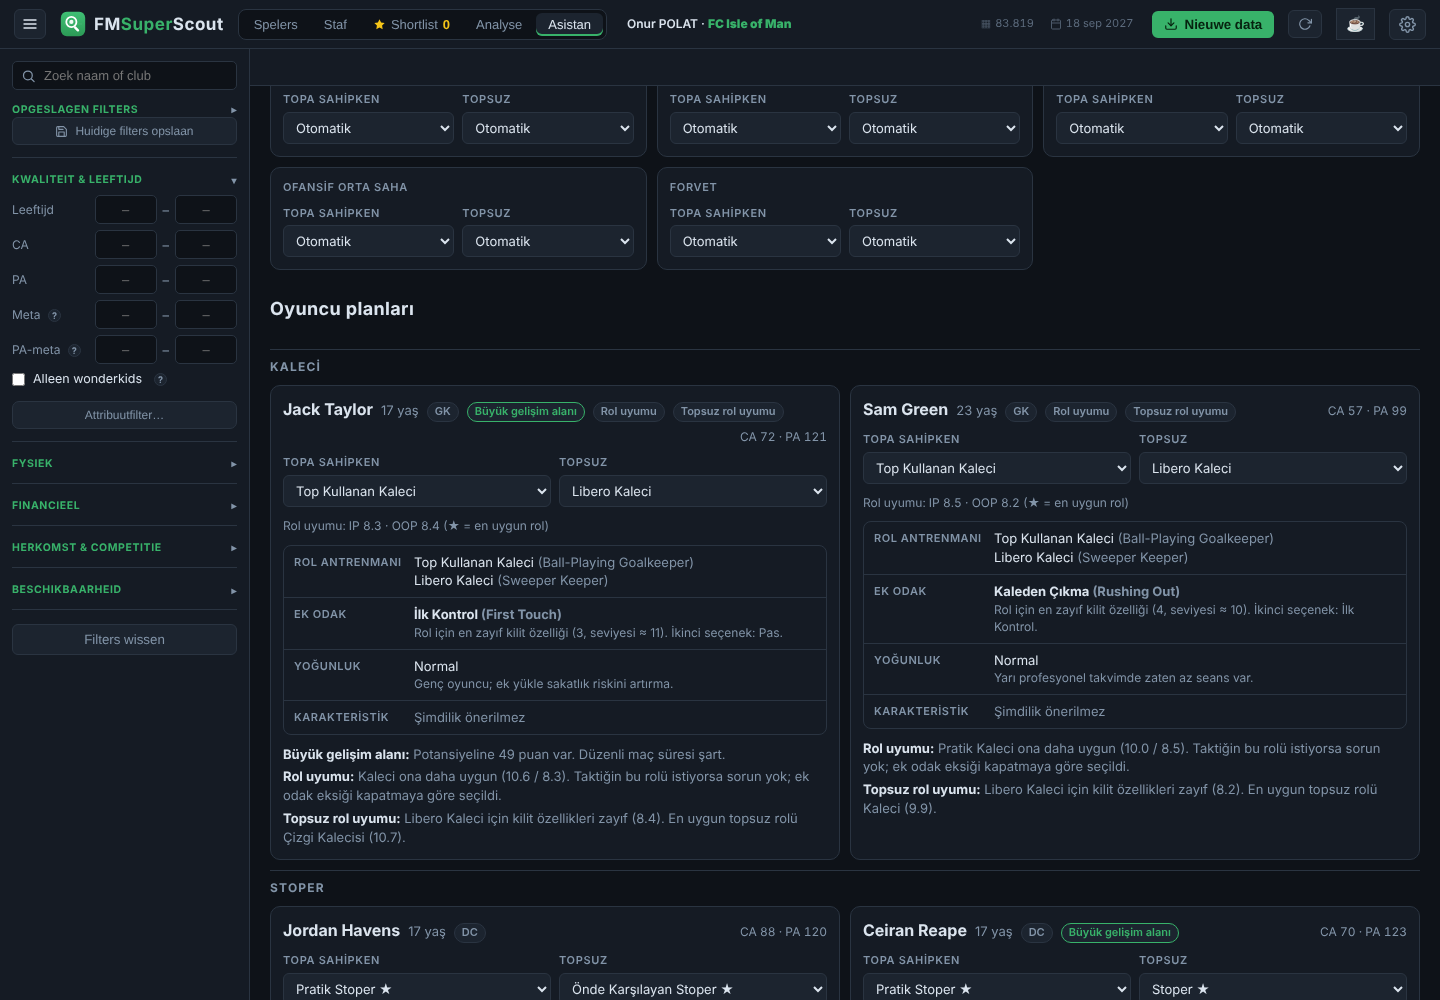
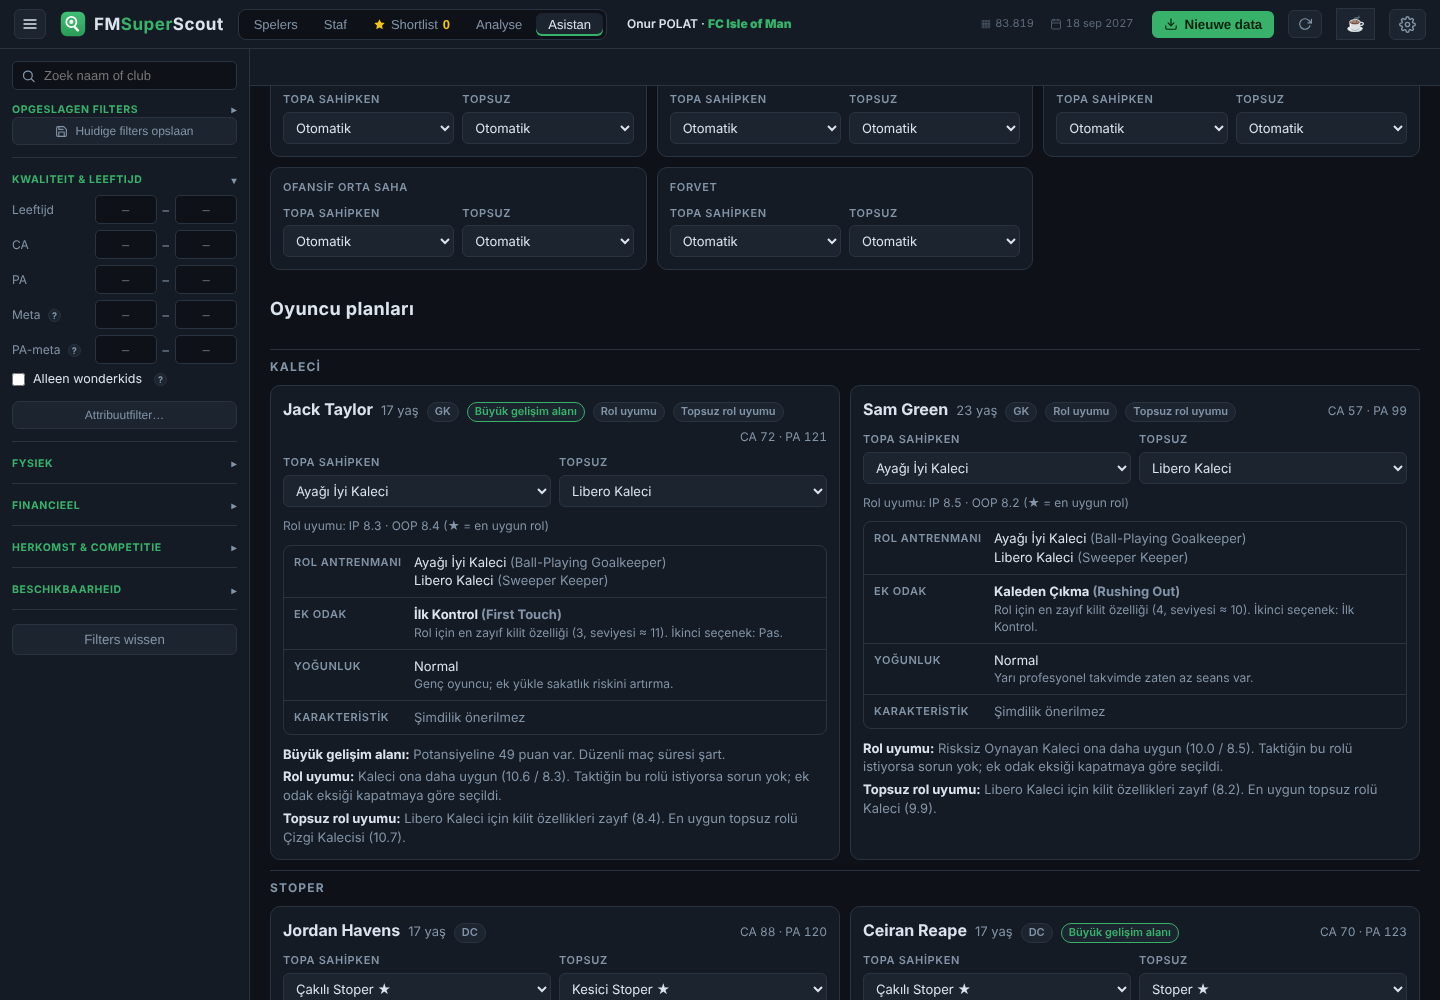
Use the game's Turkish role names; add Wide Centre-Back and Pressing DM roles
Claude-Session: https://claude.ai/code/session_01FYAE2VKR73swPSjYHJ17VG

diff --git a/src/i18n.js b/src/i18n.js
@@ -100,82 +100,85 @@ const I18N = {
     infl: { high:'yüksek', mid:'orta', low:'düşük' },
     intensity: { low:'Düşük', normal:'Normal', high:'Yüksek' },
     trait: false,
-    // Rol adları: oyundaki Türkçe karşılıklara en yakın adlar; yanlarında İngilizce adı da gösterilir.
+    // Rol adları: oyunun Türkçe çevirisindeki adlar (FM26 taktik ekranı).
     role: {
       gk:'Kaleci',
-      bpgk:'Top Kullanan Kaleci',
-      nngk:'Pratik Kaleci',
+      bpgk:'Ayağı İyi Kaleci',
+      nngk:'Risksiz Oynayan Kaleci',
       gk_o:'Kaleci',
-      lhk:'Çizgi Kalecisi',
       swk:'Libero Kaleci',
+      lhk:'Çizgi Kalecisi',
       cb:'Stoper',
-      bpcb:'Top Kullanan Stoper',
-      nncb:'Pratik Stoper',
-      acb:'İleri Çıkan Stoper',
-      ocb:'Bindiren Stoper',
+      acb:'Topla Çıkan Stoper',
+      bpcb:'Ayağı İyi Stoper',
+      nncb:'Çakılı Stoper',
+      wcb:'Kenar Stoperi',
+      ocb:'Çizgiden Bindiren Stoper',
       cb_o:'Stoper',
-      ccb:'Koruyucu Stoper',
-      scb:'Önde Karşılayan Stoper',
+      scb:'Kesici Stoper',
+      ccb:'Alan Savunan Stoper',
+      wcb_o:'Kenar Stoper',
       fb:'Bek',
-      ifb:'İçeri Kat Eden Bek',
-      pwb:'Oyun Kurucu Kanat Bek',
-      iwb:'İçeri Kat Eden Kanat Bek',
       wb:'Kanat Bek',
-      awb:'İleri Kanat Bek',
+      iwb:'İç Koridorda Oynayan Kanat Bek',
+      ifb:'Stoperleşen Bek',
+      pwb:'Oyun Kurucu Kanat Bek',
+      awb:'Ofansif Bek',
       fb_o:'Bek',
-      hfb:'Tutucu Bek',
-      pfb:'Pres Yapan Bek',
+      pfb:'Presçi Bek',
+      hfb:'Alan Savunan Bek',
       wb_o:'Kanat Bek',
-      hwb:'Tutucu Kanat Bek',
-      prwb:'Pres Yapan Kanat Bek',
+      prwb:'Presçi Kanat Bek',
+      hwb:'Alan Savunan Kanat Bek',
       dm:'Defansif Orta Saha',
-      hb:'Yarı Defans',
       dlp:'Derin Oyun Kurucu',
-      b2b:'Çift Yönlü Orta Saha',
-      b2bp:'Çift Yönlü Oyun Kurucu',
+      b2b:'İki Yönlü Orta Saha',
+      hb:'Gizli Libero',
+      b2bp:'İki Yönlü Oyun Kurucu',
       dm_o:'Defansif Orta Saha',
-      ddm:'Geri Düşen Defansif Orta Saha',
-      sdm:'Perdeleyen Defansif Orta Saha',
-      wcdm:'Kanatları Kapatan Defansif Orta Saha',
+      ddm:'İçeri Sarkan Defansif Orta Saha',
+      pdm:'Presçi Defansif Orta Saha',
+      sdm:'Karşılayıcı Defansif Orta Saha',
+      wcdm:'Geniş Alanda Oynayan Defansif Orta Saha',
       cm:'Merkez Orta Saha',
-      mp:'Orta Saha Oyun Kurucusu',
-      wcm:'Kanada Açılan Merkez Orta Saha',
-      ap:'İleri Oyun Kurucu',
       am:'Ofansif Orta Saha',
-      chm:'Koridor Orta Sahası',
+      ap:'Ofansif Oyun Kurucu',
+      wcm:'Geniş Alanda Oynayan Merkez Orta Saha',
+      chm:'İç Merkez Orta Saha',
+      mp:'Oyun Kurucu Orta Saha',
       cm_o:'Merkez Orta Saha',
-      pcm:'Pres Yapan Orta Saha',
-      scm:'Perdeleyen Orta Saha',
-      wccm:'Kanatları Kapatan Orta Saha',
-      fr:'Serbest Rol',
+      pcm:'Presçi Merkez Orta Saha',
+      scm:'Markajcı Merkez Orta Saha',
+      wccm:'Geniş Bölgede Oynayan Merkez Orta Saha',
+      fr:'Serbest Oyuncu',
       ss:'İkinci Forvet',
       am_o:'Ofansif Orta Saha',
-      coam:'Merkezde Bekleyen Ofansif Orta Saha',
-      soam:'Kanala Açılan Ofansif Orta Saha',
-      tam:'Savunmaya Yardım Eden Ofansif Orta Saha',
-      'if':'İçeri Kat Eden Forvet',
-      iw:'İçeri Kat Eden Kanat',
-      pw:'Oyun Kurucu Kanat',
-      wf:'Kanat Forvet',
-      w:'Kanat Oyuncusu',
+      tam:'Takipçi Ofansif Orta Saha',
+      coam:'Pres Kırıcı Merkez Orta Saha',
+      soam:'Hareketli Ofansif Orta Saha',
       wm:'Kanat Orta Saha',
+      w:'Kanat Oyuncusu',
+      pw:'Oyun Kurucu Kanat',
+      iw:'İç Kanat Oyuncusu',
+      wf:'Kanat Forvet',
+      'if':'İç Kanat Forvet',
+      wm_o:'Dış Kanat Orta Saha',
+      twm:'Çalışkan Dış Orta Saha',
+      wowm:'Pres Kırıcı Dış Orta Saha',
       w_o:'Kanat Oyuncusu',
-      iow:'İçeride Bekleyen Kanat',
-      tw:'Savunmaya Yardım Eden Kanat',
-      wow:'Kenarda Bekleyen Kanat',
-      wm_o:'Kanat Orta Saha',
-      twm:'Savunmaya Yardım Eden Kanat Orta Saha',
-      wowm:'Kenarda Bekleyen Kanat Orta Saha',
-      cf:'Santrfor',
-      chf:'Koridor Forveti',
-      dlf:'Derin Forvet',
+      tw:'Takipçi Kanat',
+      iow:'İç Koridorda Bekleyen Kanat',
+      wow:'Hareketli Kanat Oyuncusu',
+      dlf:'Yardımcı Forvet',
+      cf:'Merkez Forvet',
+      tf:'Pivot Santrafor',
+      poa:'Fırsatçı Oyuncu',
+      chf:'İç Forvet',
       f9:'Sahte 9',
-      poa:'Fırsatçı Forvet',
-      tf:'Hedef Forvet',
-      cf_o:'Santrfor',
-      cocf:'Merkezde Bekleyen Santrfor',
-      socf:'Kanala Açılan Santrfor',
-      tcf:'Savunmaya Yardım Eden Santrfor',
+      cf_o:'Merkez Forvet',
+      tcf:'Takipçi Forvet',
+      cocf:'Bağlantı Oyuncusu',
+      socf:'Hareketli Forvet',
     },
     traitTr: {
       'Gets Into Opposition Area':'Rakip ceza sahasına girer', 'Shoots From Distance':'Uzaktan şut dener', 'Places Shots':'Plase vurur',

diff --git a/src/engine.js b/src/engine.js
@@ -21,9 +21,11 @@ const ROLES = [
   R('bpcb','IP','Ball-Playing Centre-Back',['DC'],['Passing','Composure','Vision','FirstTouch','Technique','Decisions'],['Positioning','Heading']),
   R('nncb','IP','No-Nonsense Centre-Back',['DC'],['Heading','JumpingReach','Strength','Bravery','Positioning'],['Marking','Tackling','Concentration']),
   R('acb','IP','Advanced Centre-Back',['DC'],['Passing','Dribbling','FirstTouch','Composure','Vision','Decisions'],['Technique','Stamina','Acceleration']),
+  R('wcb','IP','Wide Centre-Back',['DC'],['Marking','Tackling','Positioning','Dribbling','Crossing','Pace'],['Stamina','Passing']),
   R('ocb','IP','Overlapping Centre-Back',['DC'],['Dribbling','Crossing','Stamina','Pace','Acceleration','OffTheBall'],['Passing','WorkRate']),
   R('cb_o','OOP','Centre-Back',['DC'],['Marking','Tackling','Positioning','Heading','JumpingReach','Concentration'],['Anticipation','Strength']),
   R('ccb','OOP','Covering Centre-Back',['DC'],['Positioning','Anticipation','Pace','Acceleration','Concentration','Decisions'],['Marking','Tackling']),
+  R('wcb_o','OOP','Wide Centre-Back',['DC'],['Marking','Tackling','Positioning','Pace','Concentration'],['Acceleration','Stamina']),
   R('scb','OOP','Stopping Centre-Back',['DC'],['Tackling','Aggression','Bravery','Strength','Anticipation','Marking'],['Decisions','Acceleration']),
   // Full-back / wing-back
   R('fb','IP','Full Back',['DW'],['Marking','Tackling','Positioning','Crossing','Stamina','WorkRate'],['Teamwork','Pace','Passing']),
@@ -46,6 +48,7 @@ const ROLES = [
   R('b2bp','IP','Box-To-Box Playmaker',['DM'],['Passing','Vision','Stamina','WorkRate','Technique','OffTheBall'],['Decisions','FirstTouch']),
   R('dm_o','OOP','Defensive Midfielder',['DM'],['Tackling','Marking','Positioning','Anticipation','Concentration'],['Teamwork','WorkRate']),
   R('ddm','OOP','Dropping Defensive Midfielder',['DM'],['Positioning','Marking','Heading','JumpingReach','Concentration'],['Strength','Tackling']),
+  R('pdm','OOP','Pressing Defensive Midfielder',['DM'],['Tackling','WorkRate','Stamina','Aggression','Acceleration','Anticipation'],['Teamwork','Bravery']),
   R('sdm','OOP','Screening Defensive Midfielder',['DM'],['Positioning','Anticipation','Concentration','Decisions','Teamwork'],['Marking','Tackling']),
   R('wcdm','OOP','Wide Covering Defensive Midfielder',['DM'],['Stamina','WorkRate','Pace','Tackling','Positioning'],['Anticipation','Teamwork']),
   // Central midfield

diff --git a/README.tr.md b/README.tr.md
@@ -81,7 +81,7 @@ FM26 rol listesi oyundakiyle aynıdır. Rol başına kilit ve tercih edilen öze
 
 **Bilinen sınırlar:**
 - FMSuperScout kaleci antrenörü özelliklerini bellekten tam okuyamıyor. Bu yüzden kaleci satırı *tahmini* olarak işaretli.
-- Türkçe rol adları oyunun Türkçe karşılıklarına en yakın adlardır; oyundakiyle eşleştirebilmen için yanlarında İngilizce adları da gösterilir. Oyundaki adla farklı olan bir rol görürsen `src/i18n.js` içindeki `role` listesinden düzeltebilir ya da issue açabilirsin.
+- Türkçe rol adları oyunun FM26 taktik ekranındaki Türkçe adlarıdır; yanlarında İngilizce adları da gösterilir. Bir FM yamasında değişen bir ad görürsen `src/i18n.js` içindeki `role` listesinden düzeltebilir ya da issue açabilirsin.
 
 ## Geliştirme
 

diff --git a/README.md b/README.md
@@ -81,7 +81,7 @@ The FM26 role list follows the game. The key and preferred attributes per role, 
 
 **Known limitations:**
 - FMSuperScout cannot fully read goalkeeping-coach attributes from memory, so the goalkeeping row is marked *estimated*.
-- Turkish role names are the closest equivalents to the game's Turkish translation. The English name is shown next to them so players can match the game. If one differs from your game, fix it in the `role` list in `src/i18n.js` or open an issue.
+- Turkish role names are taken from the game's Turkish tactics screen, with the English name shown next to them. If a patch renames one, fix it in the `role` list in `src/i18n.js` or open an issue.
 
 ## Development
 
